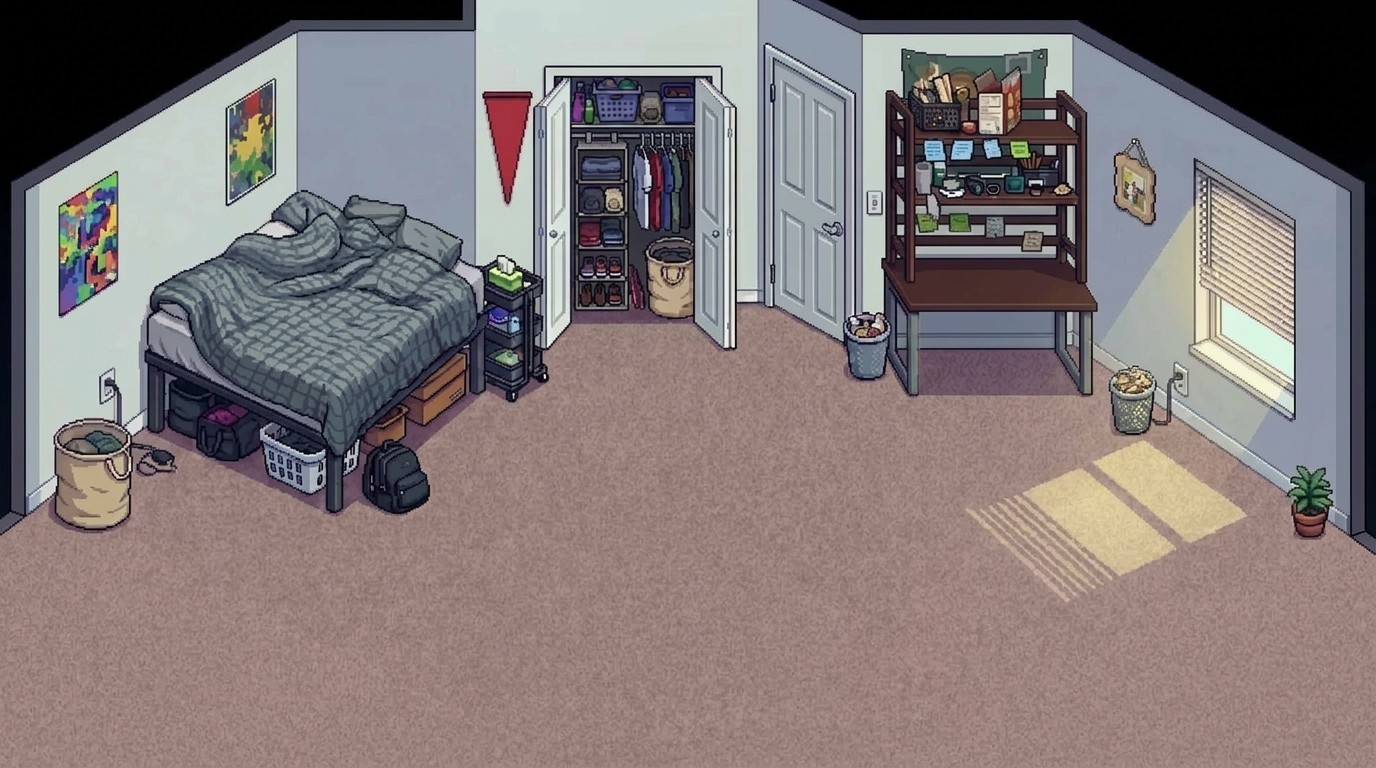
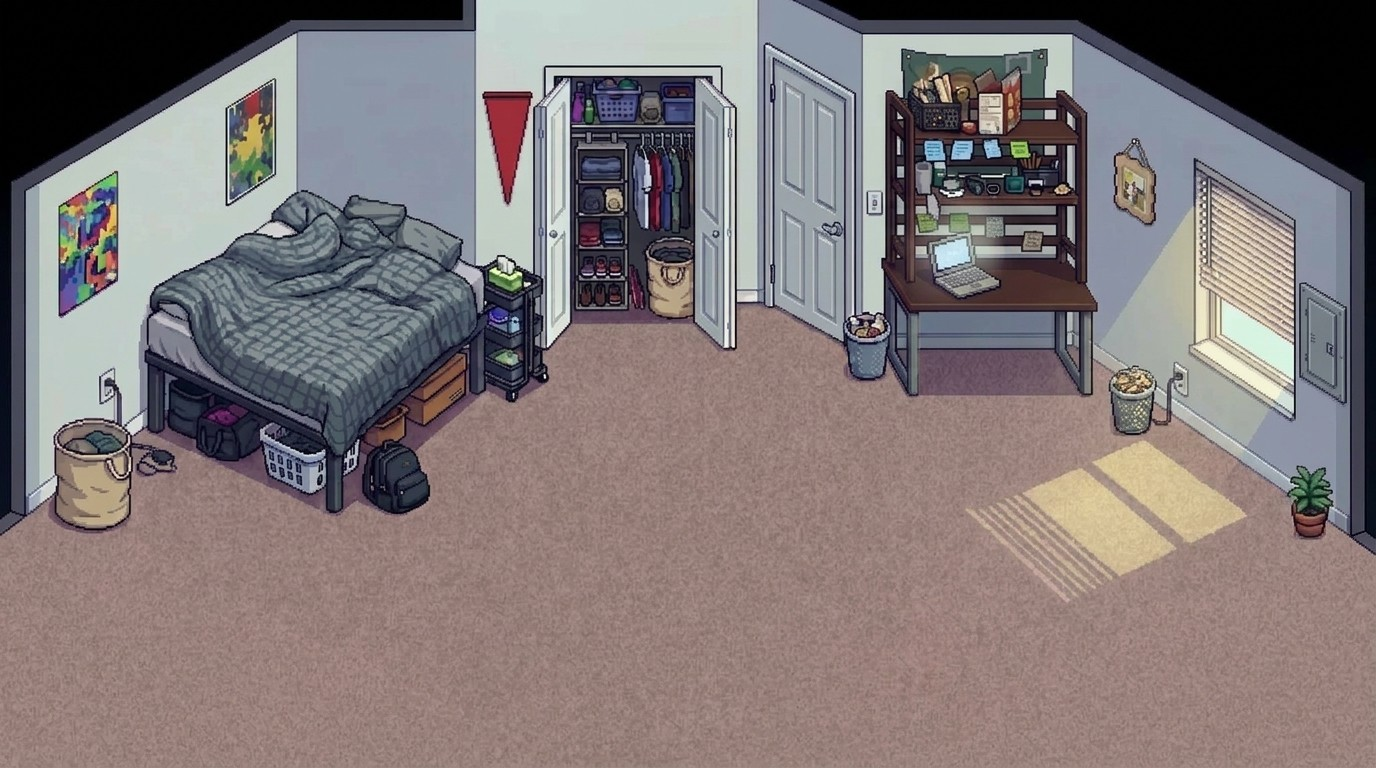
Room with laptop and breaker panel built in
- New dorm image (edited by Gemini): open laptop on the corner desk and
  a breaker panel on the right wall; everything else is pixel-aligned
  with the previous room, so collision and plots are unchanged
- Breaker is a walk-up spot; its label only shows when you're next to it
- "Shop" label moved above the laptop

Claude-Session: https://claude.ai/code/session_015mV6JK6uZvA2r6T8BRmxzo

Changed region(s): [[0.6562, 0.25, 0.75, 0.4062], [0.9375, 0.375, 1.0, 0.5312]]

diff --git a/src/scenes/DormScene.js b/src/scenes/DormScene.js
@@ -47,6 +47,8 @@ export class DormScene extends Phaser.Scene {
     this.spots = [
       this.addSpot('stash', DORM.stash, 'Stash', 'item-cash'),
       this.addSpot('starterDesk', DORM.starterDesk, 'Shop'),
+      // Only labeled when you're next to it (later: also when the breaker trips).
+      this.addSpot('breaker', DORM.breaker, 'Breaker', null, { hiddenWhenFar: true }),
     ];
 
     this.keys = this.input.keyboard.addKeys({
@@ -162,7 +164,7 @@ export class DormScene extends Phaser.Scene {
 
   // ---------- Places you can use (stash, shop) ----------
 
-  addSpot(id, def, label, iconKey) {
+  addSpot(id, def, label, iconKey, { hiddenWhenFar = false } = {}) {
     const container = this.add.container(def.labelX ?? def.x, def.labelY).setDepth(12000);
     const text = this.add.text(0, 0, label, {
       fontFamily: 'system-ui, sans-serif',
@@ -177,9 +179,10 @@ export class DormScene extends Phaser.Scene {
       const icon = this.add.image(-text.width / 2 - 6, 0, iconKey).setOrigin(1, 0.5);
       container.add(icon);
     }
-    container.setAlpha(0.55);
+    const farAlpha = hiddenWhenFar ? 0 : 0.55;
+    container.setAlpha(farAlpha);
     this.tweens.add({ targets: container, y: def.labelY - 6, duration: 900, yoyo: true, repeat: -1, ease: 'Sine.inOut' });
-    return { id, def, container, near: false };
+    return { id, def, container, near: false, farAlpha };
   }
 
   updateSpots() {
@@ -187,7 +190,7 @@ export class DormScene extends Phaser.Scene {
       const near = Math.hypot(this.player.x - spot.def.x, this.player.y - spot.def.y) < spot.def.reach;
       if (near === spot.near) continue;
       spot.near = near;
-      spot.container.setAlpha(near ? 1 : 0.55).setScale(near ? 1.12 : 1);
+      spot.container.setAlpha(near ? 1 : spot.farAlpha).setScale(near ? 1.12 : 1);
       this.events.emit(near ? 'spot-enter' : 'spot-leave', spot.id);
     }
   }
@@ -290,7 +293,7 @@ export class DormScene extends Phaser.Scene {
     g.lineStyle(2, 0xff3355, 0.9);
     for (const shape of this.blocked) g.strokePoints(pts(shape), true);
     g.lineStyle(2, 0xffd000, 0.8);
-    for (const spot of [DORM.stash, DORM.starterDesk, DORM.deliverySpot]) {
+    for (const spot of [DORM.stash, DORM.starterDesk, DORM.breaker, DORM.deliverySpot]) {
       g.strokeCircle(spot.x, spot.y, spot.reach ?? 20);
     }
   }

diff --git a/src/data/dorm.js b/src/data/dorm.js
@@ -40,7 +40,10 @@ export const DORM = {
   stash: { x: 95, y: 495, reach: 110, labelX: 125, labelY: 400 },
 
   // The corner desk is the free starter workstation: hustles and the shop screen.
-  starterDesk: { x: 990, y: 415, reach: 95, labelY: 250 },
+  starterDesk: { x: 990, y: 415, reach: 95, labelY: 200 },
+
+  // Breaker panel on the right wall: reset it when too much power trips the breaker.
+  breaker: { x: 1255, y: 500, reach: 85, labelX: 1290, labelY: 268 },
 
   // Deliveries show up here, just inside the door.
   deliverySpot: { x: 812, y: 395 },
